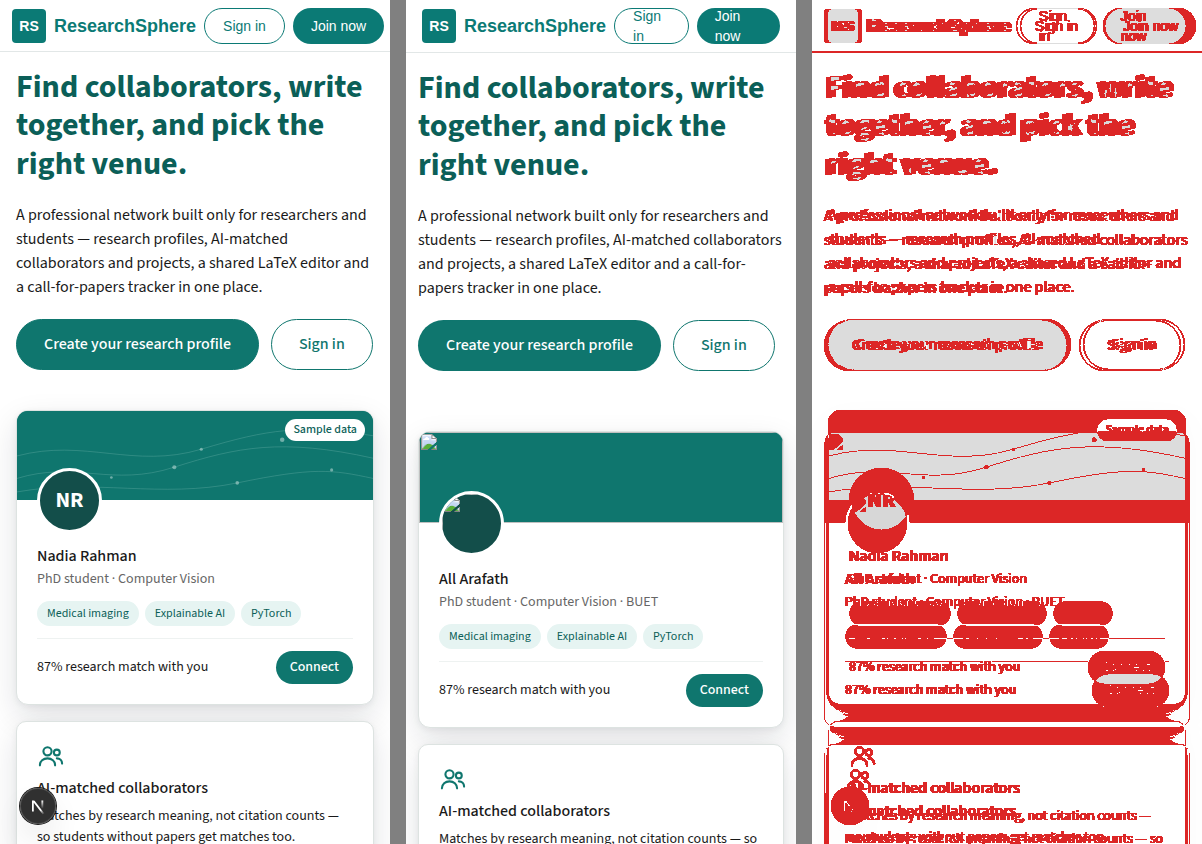
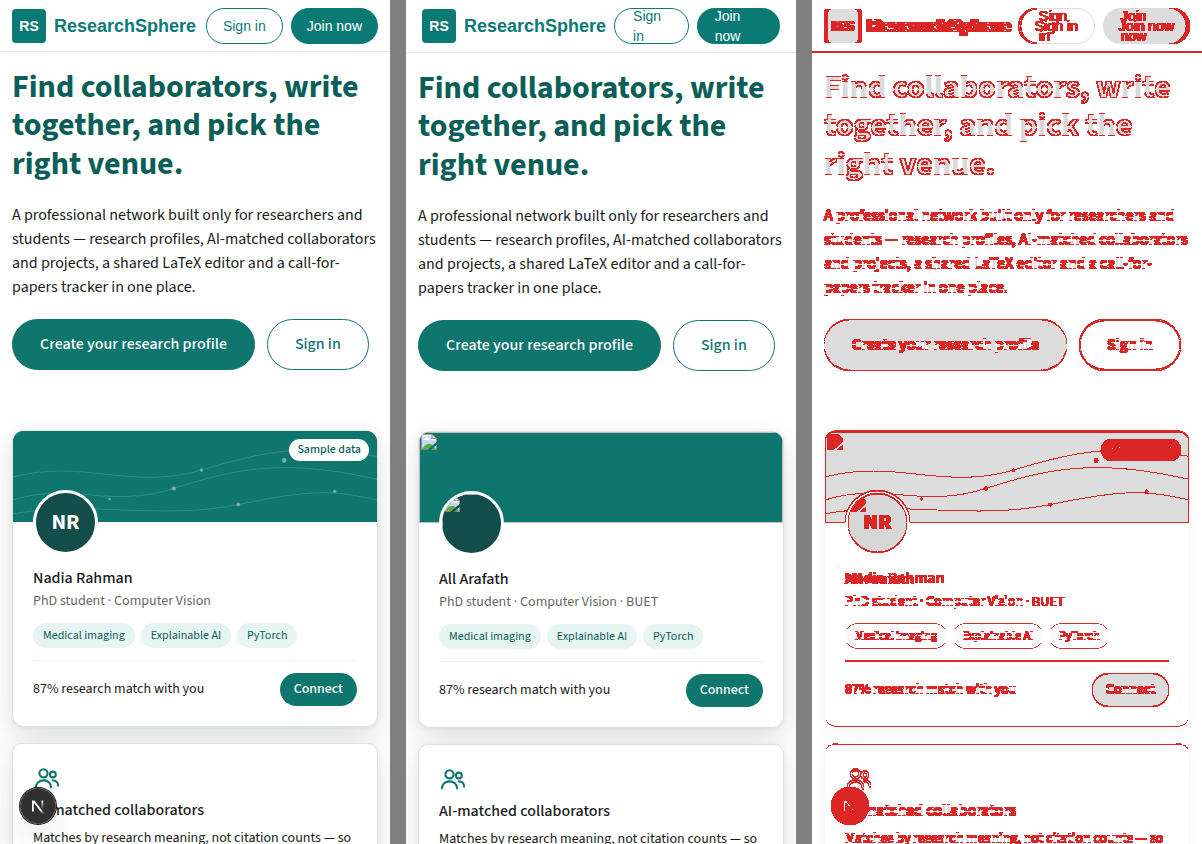
Match landing and auth pages to design

diff --git a/frontend/src/components/site-footer.tsx b/frontend/src/components/site-footer.tsx
@@ -82,7 +82,8 @@ export function CurrentSiteFooter() {
 // SiteFooter is the site footer (docs/ui-guidelines.md, Site footer). "full" spans the page:
 // the brand, three link columns, help links and the language; six columns, three at 960px
 // and narrower, two at 560px and narrower. "compact" is the bordered card at the bottom of
-// the home page's right column: centred links and the copyright.
+// the home page's right column: centred links and the copyright. The full footer keeps 16px
+// side padding under 640px, as the design's footer does (the page gutter is 12px there).
 export function SiteFooter({ variant = "full" }: { variant?: Exclude<FooterVariant, "none"> }) {
   if (variant === "compact") {
     return (
@@ -109,7 +110,7 @@ export function SiteFooter({ variant = "full" }: { variant?: Exclude<FooterVaria
       aria-label="Site footer"
       className="mt-auto border-t border-rs-nav-border bg-rs-footer-bg font-rs-ui text-rs-caption leading-rs-relaxed text-rs-text"
     >
-      <Container className="grid grid-cols-[minmax(150px,1.1fr)_repeat(3,minmax(110px,1fr))_minmax(190px,1.4fr)_minmax(150px,1fr)] gap-y-4 py-6 max-[960px]:grid-cols-3 max-[960px]:gap-4 max-[560px]:grid-cols-2">
+      <Container className="grid grid-cols-[minmax(150px,1.1fr)_repeat(3,minmax(110px,1fr))_minmax(190px,1.4fr)_minmax(150px,1fr)] gap-y-4 py-6 max-[640px]:px-4 max-[960px]:grid-cols-3 max-[960px]:gap-4 max-[560px]:grid-cols-2">
         <div className="pr-4 max-[960px]:col-span-full max-[960px]:p-0">
           <Link href="/" className={`inline-flex items-center gap-1.5 text-rs-body font-bold text-rs-accent ${linkFocus}`}>
             <LogoSquare size="sm" />

diff --git a/frontend/src/components/public-header.tsx b/frontend/src/components/public-header.tsx
@@ -5,14 +5,15 @@ import { Container } from "@/components/Container";
 import { Logo } from "@/components/logo";
 
 const pill =
-  "flex h-9 items-center rounded-rs-pill px-[18px] text-rs-body font-medium whitespace-nowrap focus-visible:shadow-focus focus-visible:outline-none";
+  "flex h-9 items-center rounded-rs-pill px-[18px] text-rs-body max-[640px]:px-4 font-medium whitespace-nowrap focus-visible:shadow-focus focus-visible:outline-none";
 
 // PublicHeader is the signed-out top bar (docs/ui-guidelines.md, Signed-out pages): the
-// logo and name, then Events (hidden under 640px), "Sign in" and "Join now".
+// logo and name, then Events (hidden under 640px), "Sign in" and "Join now". The pills
+// are 16px narrower each side under 640px so they stay on one line at 390px.
 export function PublicHeader() {
   return (
     <header className="sticky top-0 z-50 h-[52px] border-b border-rs-nav-border bg-rs-surface font-rs-ui text-rs-nav-text">
-      <Container className="flex h-[52px] items-center gap-2 max-[640px]:px-3">
+      <Container className="flex h-[52px] items-center gap-2">
         <Logo />
         <nav aria-label="Visitor" className="ml-auto flex items-center gap-2">
           <Link

diff --git a/frontend/src/components/app-shell/app-shell.tsx b/frontend/src/components/app-shell/app-shell.tsx
@@ -17,7 +17,7 @@ export function AppShell({ children }: { children: ReactNode }) {
   return (
     <div className="flex flex-1 flex-col max-[640px]:pb-14 max-[480px]:pt-14 max-[480px]:pb-16">
       <header className="sticky top-0 z-50 h-[52px] border-b border-rs-nav-border bg-rs-surface font-rs-ui text-rs-nav-text max-[480px]:hidden">
-        <Container className="flex h-[52px] items-center gap-2 max-[640px]:px-3">
+        <Container className="flex h-[52px] items-center gap-2">
           <Logo href="/home" markOnly />
           <SearchBox id="site-search" variant="top" />
           <nav aria-label="Main" className="ml-auto flex h-full">
@@ -38,7 +38,7 @@ export function AppShell({ children }: { children: ReactNode }) {
         </Link>
       </header>
 
-      <Container as="main" className="flex-1 pt-6 pb-12 max-[640px]:px-3 max-[640px]:pt-4 max-[640px]:pb-8">
+      <Container as="main" className="flex-1 pt-6 pb-12 max-[640px]:pt-4 max-[640px]:pb-8">
         {children}
       </Container>
       <Suspense fallback={null}>

diff --git a/frontend/src/features/landing/sections.tsx b/frontend/src/features/landing/sections.tsx
@@ -50,10 +50,11 @@ export function Welcome() {
 }
 
 // Hero is the 52px headline, the intro, the two pills and the sample profile card. The two
-// columns wrap to one when there is no room for both (420px and 380px at least).
+// columns wrap to one when there is no room for both (420px and 380px at least); under 640px
+// the card sits 60px below the pills, as measured on Landing_m.html.
 function Hero() {
   return (
-    <section aria-labelledby="hero-heading" className="flex flex-wrap items-center gap-10">
+    <section aria-labelledby="hero-heading" className="flex flex-wrap items-center gap-10 max-[640px]:gap-y-15">
       <div className="flex min-w-0 flex-[1_1_420px] flex-col gap-5">
         <h1
           id="hero-heading"

diff --git a/frontend/src/components/Container.tsx b/frontend/src/components/Container.tsx
@@ -2,7 +2,7 @@ import type { ElementType, ReactNode } from "react";
 
 // Container is the only place that sets page width (docs/ui-guidelines.md, Layout widths).
 // Sections never set their own max-width: a full-bleed background goes on the section and
-// its content goes in a Container.
+// its content goes in a Container. The side padding is px-gutter: 16px, 12px under 640px.
 
 export type ContainerSize = "marketing" | "app" | "full";
 

diff --git a/frontend/src/components/container.test.tsx b/frontend/src/components/container.test.tsx
@@ -24,7 +24,7 @@ describe("Container", () => {
     expect(screen.getByText("content").className).toContain("max-w-content");
   });
 
-  it("sets the 16px side padding at every width", () => {
+  it("sets the gutter side padding (16px, 12px under 640px through the token)", () => {
     render(<Container>content</Container>);
     const { className } = screen.getByText("content");
     expect(className).toContain("px-gutter");

diff --git a/frontend/src/app/globals.css b/frontend/src/app/globals.css
@@ -110,6 +110,13 @@
   --rs-menu: 264px;
 }
 
+/* Page side padding is 12px under 640px, as the design's main{padding:16px 12px 32px}. */
+@media (width < 640px) {
+  :root {
+    --rs-gutter: 12px;
+  }
+}
+
 @theme inline {
   --color-rs-surface: var(--rs-surface);
   --color-rs-text: var(--rs-text);

diff --git a/docs/ui-guidelines.md b/docs/ui-guidelines.md
@@ -124,7 +124,7 @@ Weights are 400, 500 and 700: Tailwind's `font-normal`, `font-medium`, `font-bol
 | `--rs-shadow-bar` | `0 1px 3px rgba(16,24,40,.06)` (phone top bar) | `shadow-rs-bar` |
 | `--rs-shadow-bar-up` | `0 -1px 3px rgba(16,24,40,.06)` (phone bottom bar) | `shadow-rs-bar-up` |
 | `--rs-content` | 1128px, page content width | `max-w-content` |
-| `--rs-gutter` | 16px, page side padding | `px-gutter` |
+| `--rs-gutter` | 16px (12px under 640px), page side padding | `px-gutter` |
 | `--rs-menu` | 264px, Me menu width | `w-rs-menu` |
 
 Spacing uses Tailwind's default 4px scale, which covers the design's values (`1.5` = 6px,
@@ -153,7 +153,7 @@ Design images (`/_blob/…`) are placeholders and always differ.
 The app shell moved to the design. These are gone; do not bring them back:
 
 - `max-w-marketing` and `max-w-page` (1280px); use `max-w-content` through Container.
-- The responsive Container padding (16, 24, 32px); it is `px-gutter` at every width.
+- The responsive Container padding (16, 24, 32px); it is `px-gutter` (16px, 12px under 640px).
 - The system-font `--font-sans` body; the body uses `--rs-font-sans`.
 - The fixed 56px signed-in top bar, its `md:` bottom bar and the Events and Admin tabs
   (Events and the admin console are in the Me menu).
@@ -217,8 +217,9 @@ The tokens below style pages that are not restyled yet. Do not use them in a res
   | Home (`/home`) | left 240px, center flexible, right 320px: `lg:grid-cols-[240px_minmax(0,1fr)_320px]` | left 240px and center; the right column moves under the center | one column |
 
   The gap is 24px (`gap-6`).
-- **Side padding:** 16px at every width (`px-gutter`), as in the design. Container adds it;
-  sections add none. The signed-in `main` and the top bars use 12px under 640px.
+- **Side padding:** 16px, 12px under 640px (`px-gutter`; the token drops to 12px, as the
+  design's `main{padding:16px 12px 32px}`). Container adds it; sections add none. The full site
+  footer keeps 16px under 640px, as in the design.
 - **Full-bleed backgrounds:** the hero, CTA band and footer backgrounds span the whole screen.
   Put the background on the `<section>` (or `<footer>`) and its content inside a Container.
 - **Fill the width:** grids and cards fill the full Container width.
@@ -255,7 +256,8 @@ Landing, register, check-email, verify-email, sign-in and reset-password.
   (18px bold `rs-accent`, to `/`). Right, 8px apart, in `<nav aria-label="Visitor">`: an
   Events tab (icon and label, to `/events`, hidden under 640px), "Sign in" as a 36px outline
   pill (`rs-accent`, to `/login`) and "Join now" as a 36px filled pill (to `/register`).
-  Button text never wraps.
+  Button text never wraps, and the pills stay on one line at 390px (18px side padding, 16px
+  under 640px); the design wraps them there, which is not copied.
 - **Landing (`/`):** first the design's top (`design/screens/Landing.html`, UI.3), in one
   Container with 56px above, 64px below and 56px between (16, 32 and 16px under 640px):
   1. **Hero:** the 52px bold `rs-heading` headline "Find collaborators, write together, and
@@ -266,7 +268,7 @@ Landing, register, check-email, verify-email, sign-in and reset-password.
      1584:396, a 65px initials avatar, a fictional name and headline, three interest chips
      and "87% research match with you" with a Connect pill that is a picture, not a button.
      It carries a "Sample data" badge. The columns wrap when there is no room for 420px and
-     380px.
+     380px; under 640px the card sits 60px below the pills, as on `Landing_m.html`.
   2. **Feature cards:** three cards ("What you can do"): a 28px icon, a 16px/500 title and
      14px text, `repeat(auto-fit, minmax(240px, 1fr))` with a 16px gap, one column under 640px.
 
